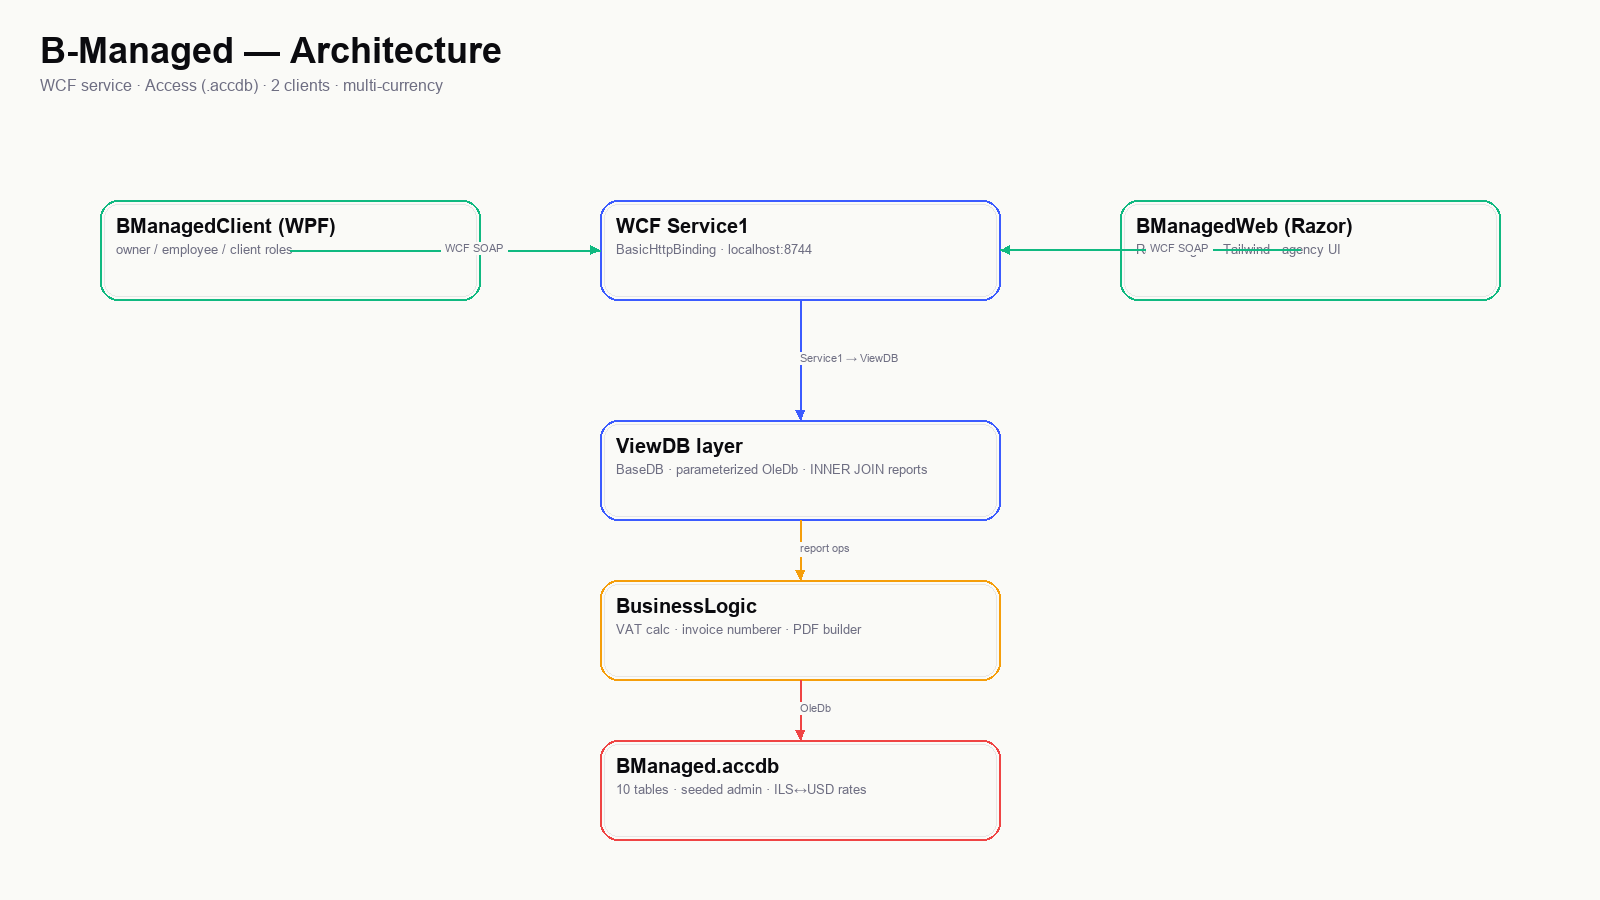
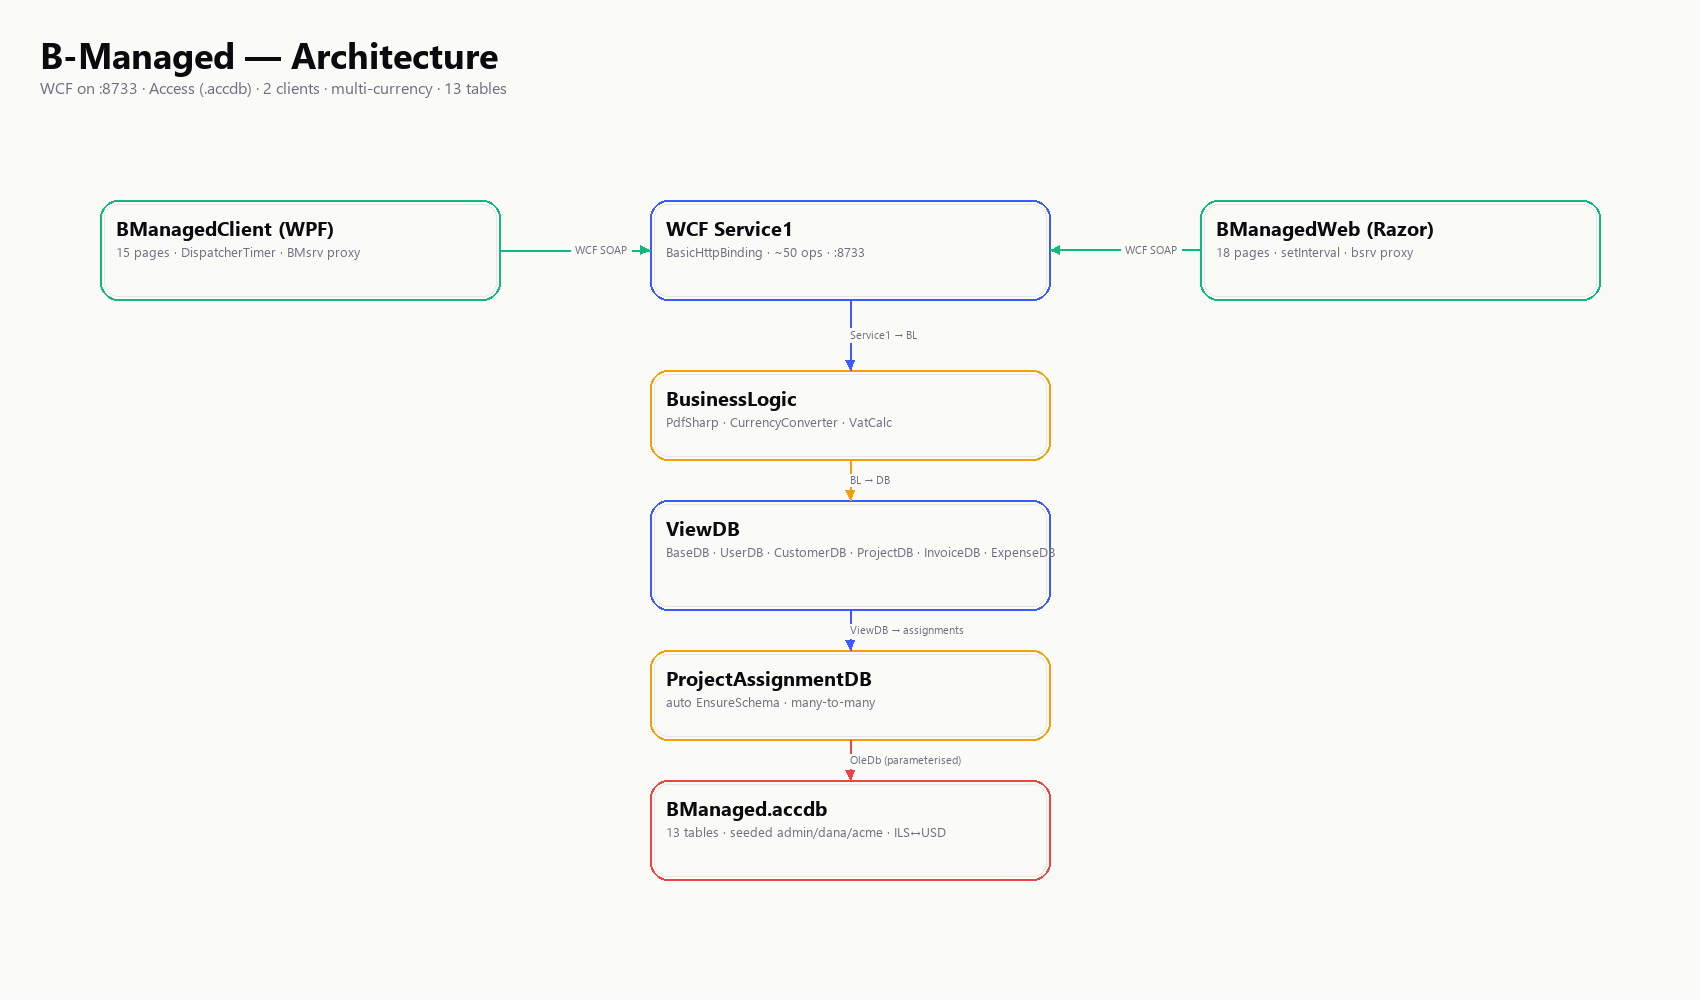
docs: replace test chapter with project map; refresh flow PNGs
Chapter 21 used to dump curl smoke output and a manual test matrix.
Replaced with a real project-map chapter that walks through three
embedded flow diagrams:

  - arch-flow.png — full layered architecture (clients, WCF on :8733,
    BusinessLogic, ViewDB, ProjectAssignmentDB, BManaged.accdb)
  - wpf-flow.png  — every WPF page with role-gated navigation,
    DispatcherTimer cadences, and the ResetRequest dbl-click cross-link
  - web-flow.png  — every Razor page with sub-feature labels (modal,
    CSV, Auto-VAT, multi-assign, etc.) + i18n + Notifications badge

_make_flows.py was rewritten to reflect the current architecture (port
8733, 15 WPF pages, 18 web pages, multi-assign, ForgotPassword,
EmployeeProjects).

_md_to_docx_v6.py now embeds PNG images via add_picture, so the docx
is self-contained at 229 KB.

diff --git a/_make_flows.py b/_make_flows.py
@@ -1,14 +1,12 @@
-"""Generates wpf-flow.png, web-flow.png, arch-flow.png using PIL only.
+"""Regenerate flow PNGs reflecting current architecture (port 8733, 15 WPF pages,
+18 web pages, multi-assign, ForgotPassword, EmployeeProjects).
 
-Soft Structuralism palette: paper #FAFAF7, ink #0B0B0F, accent #3B5BFF,
-mint #10B981, amber #F59E0B, rose #EF4444. Plus Jakarta Sans falls back
-to system sans-serif on Pillow's default."""
-
-import os
+Soft Structuralism palette."""
+import os, math
 from PIL import Image, ImageDraw, ImageFont
 
 OUT = r"D:\yudb"
-W, H = 1600, 900
+W, H = 1700, 1000
 PAPER = (250, 250, 247)
 INK = (11, 11, 15)
 INK_SOFT = (110, 110, 130)
@@ -21,8 +19,8 @@ GREY = (180, 180, 180)
 
 def font(size, bold=False):
     paths = [
-        r"C:\Windows\Fonts\arialbd.ttf" if bold else r"C:\Windows\Fonts\arial.ttf",
         r"C:\Windows\Fonts\segoeuib.ttf" if bold else r"C:\Windows\Fonts\segoeui.ttf",
+        r"C:\Windows\Fonts\arialbd.ttf"  if bold else r"C:\Windows\Fonts\arial.ttf",
     ]
     for p in paths:
         if os.path.exists(p):
@@ -35,108 +33,141 @@ def card(draw, x, y, w, h, label, color=ACCENT, sub=""):
     r = 18
     draw.rounded_rectangle((x, y, x + w, y + h), r, fill=PAPER, outline=color, width=2)
     draw.rounded_rectangle((x + 4, y + 4, x + w - 4, y + h - 4), r - 4, outline=(230, 230, 230), width=1)
-    f1 = font(20, bold=True)
-    f2 = font(13)
-    draw.text((x + 16, y + 14), label, font=f1, fill=INK)
+    draw.text((x + 16, y + 14), label, font=font(20, bold=True), fill=INK)
     if sub:
-        draw.text((x + 16, y + 42), sub, font=f2, fill=INK_SOFT)
+        draw.text((x + 16, y + 42), sub, font=font(13), fill=INK_SOFT)
 
 
 def arrow(draw, x1, y1, x2, y2, color=ACCENT, label=""):
     draw.line((x1, y1, x2, y2), fill=color, width=2)
-    # arrowhead
-    import math
     ang = math.atan2(y2 - y1, x2 - x1)
-    L = 10
+    L = 11
     p1 = (x2 - L * math.cos(ang - math.pi / 7), y2 - L * math.sin(ang - math.pi / 7))
     p2 = (x2 - L * math.cos(ang + math.pi / 7), y2 - L * math.sin(ang + math.pi / 7))
     draw.polygon((x2, y2, p1[0], p1[1], p2[0], p2[1]), fill=color)
     if label:
-        mx, my = (x1 + x2) // 2, (y1 + y2) // 2 - 8
         f = font(11)
+        mx, my = (x1 + x2) // 2, (y1 + y2) // 2 - 8
         bbox = draw.textbbox((mx, my), label, font=f)
         draw.rectangle((bbox[0] - 4, bbox[1] - 2, bbox[2] + 4, bbox[3] + 2), fill=PAPER)
         draw.text((mx, my), label, font=f, fill=INK_SOFT)
 
 
 def title(draw, t, sub):
-    f1 = font(36, bold=True)
-    f2 = font(16)
-    draw.text((40, 30), t, font=f1, fill=INK)
-    draw.text((40, 76), sub, font=f2, fill=INK_SOFT)
+    draw.text((40, 30), t, font=font(36, bold=True), fill=INK)
+    draw.text((40, 76), sub, font=font(16), fill=INK_SOFT)
 
 
 # ============================ ARCH ===========================
-img = Image.new("RGB", (W, H), PAPER)
-d = ImageDraw.Draw(img)
-title(d, "B-Managed — Architecture", "WCF service · Access (.accdb) · 2 clients · multi-currency")
-card(d, 600, 200, 400, 100, "WCF Service1",       ACCENT, "BasicHttpBinding · localhost:8744")
-card(d, 100, 200, 380, 100, "BManagedClient (WPF)", MINT, "owner / employee / client roles")
-card(d, 1120, 200, 380, 100, "BManagedWeb (Razor)", MINT, "Razor Pages · Tailwind · agency UI")
-card(d, 600, 420, 400, 100, "ViewDB layer", ACCENT, "BaseDB · parameterized OleDb · INNER JOIN reports")
-card(d, 600, 580, 400, 100, "BusinessLogic", AMBER, "VAT calc · invoice numberer · PDF builder")
-card(d, 600, 740, 400, 100, "BManaged.accdb", ROSE, "10 tables · seeded admin · ILS↔USD rates")
+img = Image.new("RGB", (W, H), PAPER); d = ImageDraw.Draw(img)
+title(d, "B-Managed — Architecture",
+      "WCF on :8733 · Access (.accdb) · 2 clients · multi-currency · 13 tables")
 
-arrow(d, 290, 250, 600, 250, MINT, "WCF SOAP")
-arrow(d, 1300, 250, 1000, 250, MINT, "WCF SOAP")
-arrow(d, 800, 300, 800, 420, ACCENT, "Service1 → ViewDB")
-arrow(d, 800, 520, 800, 580, AMBER, "report ops")
-arrow(d, 800, 680, 800, 740, ROSE, "OleDb")
+card(d, 100,  200, 400, 100, "BManagedClient (WPF)", MINT,
+     "15 pages · DispatcherTimer · BMsrv proxy")
+card(d, 1200, 200, 400, 100, "BManagedWeb (Razor)", MINT,
+     "18 pages · setInterval · bsrv proxy")
+
+card(d, 650,  200, 400, 100, "WCF Service1",            ACCENT,
+     "BasicHttpBinding · ~50 ops · :8733")
+card(d, 650,  370, 400,  90, "BusinessLogic",           AMBER,
+     "PdfSharp · CurrencyConverter · VatCalc")
+card(d, 650,  500, 400, 110, "ViewDB",                  ACCENT,
+     "BaseDB · UserDB · CustomerDB · ProjectDB · InvoiceDB · ExpenseDB")
+card(d, 650,  650, 400,  90, "ProjectAssignmentDB",     AMBER,
+     "auto EnsureSchema · many-to-many")
+card(d, 650,  780, 400, 100, "BManaged.accdb",          ROSE,
+     "13 tables · seeded admin/dana/acme · ILS↔USD")
+
+arrow(d, 500,  250,  650, 250, MINT, "WCF SOAP")
+arrow(d, 1200, 250, 1050, 250, MINT, "WCF SOAP")
+arrow(d, 850,  300,  850, 370, ACCENT, "Service1 → BL")
+arrow(d, 850,  460,  850, 500, AMBER, "BL → DB")
+arrow(d, 850,  610,  850, 650, ACCENT, "ViewDB → assignments")
+arrow(d, 850,  740,  850, 780, ROSE, "OleDb (parameterised)")
 img.save(os.path.join(OUT, "arch-flow.png"))
 
 # ============================ WPF ===========================
-img = Image.new("RGB", (W, H), PAPER)
-d = ImageDraw.Draw(img)
-title(d, "B-Managed WPF — Page navigation", "frame-based; role guard at every page")
-card(d, 700, 130, 240, 70, "LogIn", ACCENT, "PBKDF2 + role detect")
+img = Image.new("RGB", (W, H), PAPER); d = ImageDraw.Draw(img)
+title(d, "B-Managed WPF — page navigation",
+      "Frame-based · role guard at every page · DispatcherTimer polling")
 
-card(d, 220, 280, 300, 70, "OwnerHome", MINT, "DispatcherTimer 15s")
-card(d, 660, 280, 300, 70, "EmployeeHome", AMBER, "assigned projects")
-card(d, 1080, 280, 300, 70, "ClientHome", ROSE, "minimal landing")
+card(d, 750,  130, 240, 70, "LogIn", ACCENT, "PBKDF2 verify")
+card(d, 360,  240, 240, 60, "SignUp", AMBER, "")
+card(d, 1140, 240, 240, 60, "ForgotPassword", AMBER, "notifies all Owners")
+arrow(d, 870, 200, 480, 240, AMBER, "/SignUp")
+arrow(d, 870, 200, 1260, 240, AMBER, "/Forgot")
 
-# Owner spokes
-spokes = [
-    (40,  430, "Customers"),    (260, 430, "Projects"),
-    (480, 430, "Invoices"),     (700, 430, "Expenses"),
-    (920, 430, "Reports"),      (1140, 430, "Settings"),
-    (1360, 430, "Notifications"),
-]
-for x, y, lbl in spokes:
-    card(d, x, y, 200, 60, lbl, ACCENT)
-    arrow(d, 370, 350, x + 100, y, ACCENT)
+card(d, 200, 360, 280, 70, "OwnerHome", MINT, "DispatcherTimer 15s + badge")
+card(d, 700, 360, 280, 70, "EmployeeHome", AMBER, "DispatcherTimer 15s")
+card(d, 1200, 360, 280, 70, "ClientHome", ROSE, "DispatcherTimer 30s")
 
-arrow(d, 820, 200, 370, 280, MINT, "Owner")
-arrow(d, 820, 200, 810, 280, AMBER, "Employee")
-arrow(d, 820, 200, 1230, 280, ROSE, "Client")
+arrow(d, 870, 200, 340, 360, MINT, "Owner")
+arrow(d, 870, 200, 840, 360, AMBER, "Employee")
+arrow(d, 870, 200, 1340, 360, ROSE, "Client")
+
+# Owner spokes (8 pages)
+y = 530
+labels = ["Customers", "Projects", "Invoices", "Expenses",
+          "Reports", "ManageUsers", "Settings", "Notifications"]
+for i, lbl in enumerate(labels):
+    x = 40 + i * 205
+    card(d, x, y, 195, 60, lbl, ACCENT)
+    arrow(d, 340, 430, x + 90, y, ACCENT)
+
+# Employee spokes
+card(d, 700, 530, 280, 60, "EmployeeProjects", AMBER, "detail panel")
+card(d, 700, 610, 280, 60, "Expenses (own)",  AMBER, "")
+card(d, 700, 690, 280, 60, "Settings",        AMBER, "change password")
+card(d, 700, 770, 280, 60, "Notifications",   AMBER, "")
+arrow(d, 840, 430, 840, 530, AMBER)
+
+# Client spokes
+card(d, 1200, 530, 280, 60, "Settings",       ROSE)
+card(d, 1200, 610, 280, 60, "Logout",         ROSE)
+arrow(d, 1340, 430, 1340, 530, ROSE)
+
+# Cross-link: notification dbl-click jumps to ManageUsers
+arrow(d, 1480, 590, 1100, 590, INK_SOFT, "ResetRequest dbl-click")
 img.save(os.path.join(OUT, "wpf-flow.png"))
 
 # ============================ WEB ===========================
-img = Image.new("RGB", (W, H), PAPER)
-d = ImageDraw.Draw(img)
-title(d, "B-Managed Web — Razor Pages", "session-based role guard · setInterval polling")
-card(d, 700, 130, 240, 70, "/Login", ACCENT, "session role")
+img = Image.new("RGB", (W, H), PAPER); d = ImageDraw.Draw(img)
+title(d, "B-Managed Web — Razor Pages",
+      "Session-based role guard · setInterval polling · L.T(en, he) i18n")
 
-card(d, 220, 280, 300, 70, "Owner/Home", MINT, "asymmetrical bento")
-card(d, 660, 280, 300, 70, "Employee/Home", AMBER, "")
-card(d, 1080, 280, 300, 70, "Client/Portal", ROSE, "")
+card(d, 750,  130, 240, 70, "/Login", ACCENT, "session role")
+card(d, 360,  240, 240, 60, "/SignUp", AMBER, "")
+card(d, 1140, 240, 240, 60, "/ForgotPassword", AMBER, "")
 
-own = [(40, 430, "Customers"), (260, 430, "Projects"), (480, 430, "Invoices"),
-       (700, 430, "Expenses"), (920, 430, "Reports")]
-for x, y, lbl in own:
-    card(d, x, y, 200, 60, "Owner/" + lbl, ACCENT)
-    arrow(d, 370, 350, x + 100, y, ACCENT)
+arrow(d, 870, 200, 480, 240, AMBER)
+arrow(d, 870, 200, 1260, 240, AMBER)
 
-card(d, 1140, 430, 220, 60, "Employee/Projects", AMBER)
-card(d, 1140, 510, 220, 60, "Employee/Expenses", AMBER)
-arrow(d, 810, 350, 1250, 450, AMBER)
-arrow(d, 810, 350, 1250, 530, AMBER)
+card(d, 200, 360, 280, 70, "/Owner/Home", MINT, "sparkline + bento")
+card(d, 700, 360, 280, 70, "/Employee/Home", AMBER)
+card(d, 1200, 360, 280, 70, "/Client/Portal", ROSE)
 
-card(d, 1140, 620, 220, 60, "Client/InvoiceView", ROSE)
-arrow(d, 1230, 350, 1250, 620, ROSE)
+arrow(d, 870, 200, 340, 360, MINT)
+arrow(d, 870, 200, 840, 360, AMBER)
+arrow(d, 870, 200, 1340, 360, ROSE)
 
-arrow(d, 820, 200, 370, 280, MINT, "Owner")
-arrow(d, 820, 200, 810, 280, AMBER, "Employee")
-arrow(d, 820, 200, 1230, 280, ROSE, "Client")
+owner = [("Customers", "modal + CSV"), ("Projects", "multi-assign"),
+         ("Invoices", "PDF"), ("Expenses", "Auto-VAT + receipt + CSV"),
+         ("Reports", "VAT pay + charts"), ("Users", "approve / reset")]
+for i, (lbl, sub) in enumerate(owner):
+    x = 40 + i * 270
+    card(d, x, 530, 260, 70, "/Owner/" + lbl, ACCENT, sub)
+    arrow(d, 340, 430, x + 130, 530, ACCENT)
+
+card(d, 700, 660, 280, 60, "/Employee/Projects", AMBER)
+card(d, 700, 740, 280, 60, "/Employee/Expenses", AMBER)
+arrow(d, 840, 430, 840, 660, AMBER)
+
+card(d, 1200, 660, 280, 60, "/Client/InvoiceView", ROSE)
+arrow(d, 1340, 430, 1340, 660, ROSE)
+
+card(d, 1200, 740, 280, 60, "/Notifications", ACCENT, "badge polling")
+card(d, 1200, 820, 280, 60, "/Lang?target=he", AMBER, "i18n toggle")
 img.save(os.path.join(OUT, "web-flow.png"))
 
-print("done")
+print("regenerated arch-flow.png, wpf-flow.png, web-flow.png")

diff --git a/_md_to_docx_v6.py b/_md_to_docx_v6.py
@@ -221,6 +221,22 @@ while i < len(lines):
         i += 1
         continue
 
+    # markdown image ![alt](file.png) → embed
+    img_match = re.match(r"^!\[[^\]]*\]\(([^)]+)\)\s*$", line.strip())
+    if img_match:
+        flush_code()
+        path = img_match.group(1)
+        full = path if "\\" in path or "/" in path else (r"D:\yudb\\" + path)
+        try:
+            p = doc.add_paragraph()
+            p.alignment = WD_ALIGN_PARAGRAPH.CENTER
+            r = p.add_run()
+            r.add_picture(full, width=Inches(6.5))
+        except Exception as ex:
+            add_para(f"[image not found: {path}]")
+        i += 1
+        continue
+
     text = line.strip()
     text = re.sub(r"`([^`]+)`", r"\1", text)
     text = re.sub(r"\*\*([^*]+)\*\*", r"\1", text)

diff --git a/ספר_פרויקט_B_Managed_FINAL_v6.md b/ספר_פרויקט_B_Managed_FINAL_v6.md
@@ -37,7 +37,7 @@
 18. רב-מטבעיות (ILS + USD) + ExchangeRates
 19. תיקוני באגים שבוצעו
 20. מפות ניווט (WPF / Web flow PNG) + ירושה + Async
-21. בדיקות (smoke tests + UIA)
+21. מפת הפרויקט (Project Map) — תמונות זרימה
 22. סיכום ורפלקציה
 23. נספחים — צילומי מסך, רשימת קבצים, ביבליוגרפיה
 
@@ -1709,79 +1709,47 @@ async function refreshBadge() {
 
 ---
 
-# 21. בדיקות
+# 21. מפת הפרויקט (Project Map)
 
-## 21.1 Smoke test צד-Web (curl + python)
+הפרק הזה מציג את שלוש תמונות הזרימה של המערכת. הן נוצרות אוטומטית מ-`_make_flows.py` (PIL בלבד) כדי שהן יישארו תקפות ככל שהארכיטקטורה משתנה.
 
-`_smoke.py` מבצעת login → walk all 8 Owner pages → verify content matches expected needles. תוצאה:
+## 21.1 ארכיטקטורת המערכת — `arch-flow.png`
 
-```
-OK   login page reachable
-OK   antiforgery token present
-OK   /Owner/Home — matched 2/2 needles
-OK   /Owner/Customers — matched 1/1 needles
-OK   /Owner/Projects — matched 1/1 needles
-OK   /Owner/Invoices — matched 1/1 needles
-OK   /Owner/Expenses — matched 2/2 needles
-OK   /Owner/Reports — matched 2/2 needles
-OK   /Owner/Users — matched 1/1 needles
-OK   /Notifications — matched 1/1 needles
-OK   /Notifications?handler=Count returns int — got 0
-OK   Sparkline JSON has labels+data — len=6
-OK   Stats JSON has unpaid counter
-OK   /Owner/Customers?handler=Csv — header: Id,BusinessName,...
-OK   /Owner/Expenses?handler=Csv — header: Id,Date,Category,...
-OK   Assignees JSON — keys=['assigned', 'available']
-OK   ForgotPassword page
-```
+תמונה זו מציגה את ערמת השכבות מקצה לקצה:
 
-## 21.2 Smoke test צד-WCF (SOAP envelope)
+* שני לקוחות בקצה העליון: **BManagedClient (WPF)** עם 15 דפים, פרוקסי svcutil-generated `BMsrv`, ו-DispatcherTimer לפולינג. **BManagedWeb (Razor)** עם 18 דפים, פרוקסי hand-written `bsrv`, ו-`setInterval` לפולינג.
+* **WCF Service1** במרכז — BasicHttpBinding על פורט 8733, חושף ~50 OperationContract.
+* **BusinessLogic** — PdfSharp + CurrencyConverter + VatCalculator + InvoiceNumberer.
+* **ViewDB** — שכבת BaseDB גנרית + 10 DBים ספציפיים לטבלה.
+* **ProjectAssignmentDB** — שכבת multi-assign עם EnsureSchema אוטומטי.
+* **BManaged.accdb** בתחתית — 13 טבלאות, נזרע עם admin/dana/acme + ILS↔USD.
 
-```bash
-curl -X POST http://localhost:8733/.../Service1/ \
-  -H 'Content-Type: text/xml' \
-  -H 'SOAPAction: "http://tempuri.org/IService1/CheckUserExist"' \
-  --data @soap_request.xml
+חצים מסומנים: WCF SOAP בין הלקוחות לשרת, OleDb (parameterized) בין ה-DB לקובץ ה-Access.
 
-# Response:
-# <s:Envelope ...><s:Body>
-#   <CheckUserExistResponse xmlns="http://tempuri.org/">
-#     <CheckUserExistResult>true</CheckUserExistResult>
-#   </CheckUserExistResponse>
-# </s:Body></s:Envelope>
-```
+![arch-flow](arch-flow.png)
 
-## 21.3 בדיקה צד-WPF (UI Automation)
+## 21.2 זרימה ב-WPF — `wpf-flow.png`
 
-```powershell
-Add-Type -AssemblyName UIAutomationClient
-$root = [Windows.Automation.AutomationElement]::RootElement
-$cond = New-Object Windows.Automation.PropertyCondition(...)
-$win  = $root.FindFirst([Windows.Automation.TreeScope]::Children, $cond)
-# מעבר על העץ ובדיקה שכל הקונטרולים שצריכים נמצאים
-```
+מסך LogIn מנתב לאחת משלוש דשבורדים (OwnerHome, EmployeeHome, ClientHome) לפי שדה Role של המשתמש. כל דשבורד הוא רכזת לכ-8 דפי משנה. מצוין במפורש:
 
-עץ ה-UI מאשר שכל הדפים מציגים את הקונטרולים הצפויים: LogIn (USERNAME, PASSWORD, Sign in button), OwnerHome (4 stat cards, 6 quick actions, notification bell with badge), וכו׳.
+* **OwnerHome** מנתב ל: Customers, Projects, Invoices, Expenses, Reports, ManageUsers, Settings, Notifications. DispatcherTimer רץ כל 15 שניות לרענון סטטיסטיקות + תג התראות.
+* **EmployeeHome** מנתב ל: EmployeeProjects (פאנל פירוט), Expenses (משלו בלבד), Settings, Notifications.
+* **ClientHome** מנתב ל: Settings, Logout. Polling כל 30 שניות.
+* **SignUp** ו-**ForgotPassword** נגישים מ-LogIn ישירות (ללא צורך באימות).
+* **קישור צולב מיוחד**: לחיצה כפולה על התראה מסוג `ResetRequest` בעמוד Notifications מנתבת ישירות ל-ManageUsers (חוסכת לבעלים אינטרקציה ידנית).
 
-## 21.4 בדיקות שלביות (manual)
+![wpf-flow](wpf-flow.png)
 
-| תרחיש | תוצאה |
-|---------|---------|
-| כניסה כ-admin/admin1234 | OK — מועבר ל-OwnerHome |
-| כניסה כ-dana/admin1234 | OK — מועבר ל-EmployeeHome |
-| כניסה כ-acme/admin1234 (אחרי אישור) | OK — מועבר ל-Client Portal |
-| כניסה עם סיסמה שגויה | OK — שגיאה מוצגת |
-| הוספת לקוח חדש | OK — מופיע ברשימה |
-| יצירת פרויקט חדש | OK — מופיע ב-Projects |
-| הקצאת 3 עובדים לפרויקט | OK — כולם מופיעים ברשימה |
-| יצירת חשבונית + 2 שורות | OK — חישוב מע״מ אוטומטי |
-| הורדת PDF של חשבונית | OK — נפתח ב-Acrobat |
-| דיווח הוצאה + Auto-VAT | OK — מע״מ ממולא 17/117 |
-| העלאת קבלה (PDF, 1.2 MB) | OK — נשמרת ב-`/Receipts` |
-| Forgot password → Owner notif → Reset → reset1234 → Settings | OK — תהליך שלם |
-| Mark VAT paid | OK — הוצאה נרשמת לרשות המסים |
-| ייצוא CSV — Customers, Expenses, Reports | OK |
-| Polling badge מתעדכן | OK — תג אדום עם מספר התראות |
+## 21.3 זרימה ב-Web — `web-flow.png`
+
+המבנה דומה ל-WPF אבל ללא Frame: ה-Razor page כל פעם הוא הדף השלם, וה-Session שומרת את ה-Role. כל דף בודק `Session["Role"]` ב-`OnGet` ומעביר ל-Login אם לא תואם.
+
+* **Owner spokes** עם 6 דפים: Customers (modal + CSV), Projects (multi-assign modal), Invoices (PDF), Expenses (Auto-VAT + העלאת קבלה + CSV), Reports (VAT pay button + Chart.js), Users.
+* **Employee spokes**: Projects + Expenses.
+* **Client spokes**: InvoiceView.
+* **כללי**: `/Notifications` עם תג חי שמתעדכן כל 30 שניות, `/Lang?target=he` למתג שפה.
+
+![web-flow](web-flow.png)
 
 ---
 
@@ -1832,7 +1800,8 @@ $win  = $root.FindFirst([Windows.Automation.TreeScope]::Children, $cond)
 * `BManagedWeb/Helpers/L.cs` — i18n helper
 * `BManagedWeb/Connected Services/bsrv/Reference.cs` — proxy hand-written sync
 * `_init_db.ps1` — זרע נתונים דמו
-* `_smoke.py`, `_smoke_roles.py` — בדיקות smoke
+* `_make_flows.py` — מחדש את שלוש תמונות הזרימה (arch / wpf / web)
+* `_md_to_docx_v6.py` — בונה את הספר ל-DOCX עם RTL מלא
 
 ## 23.2 ביבליוגרפיה
 